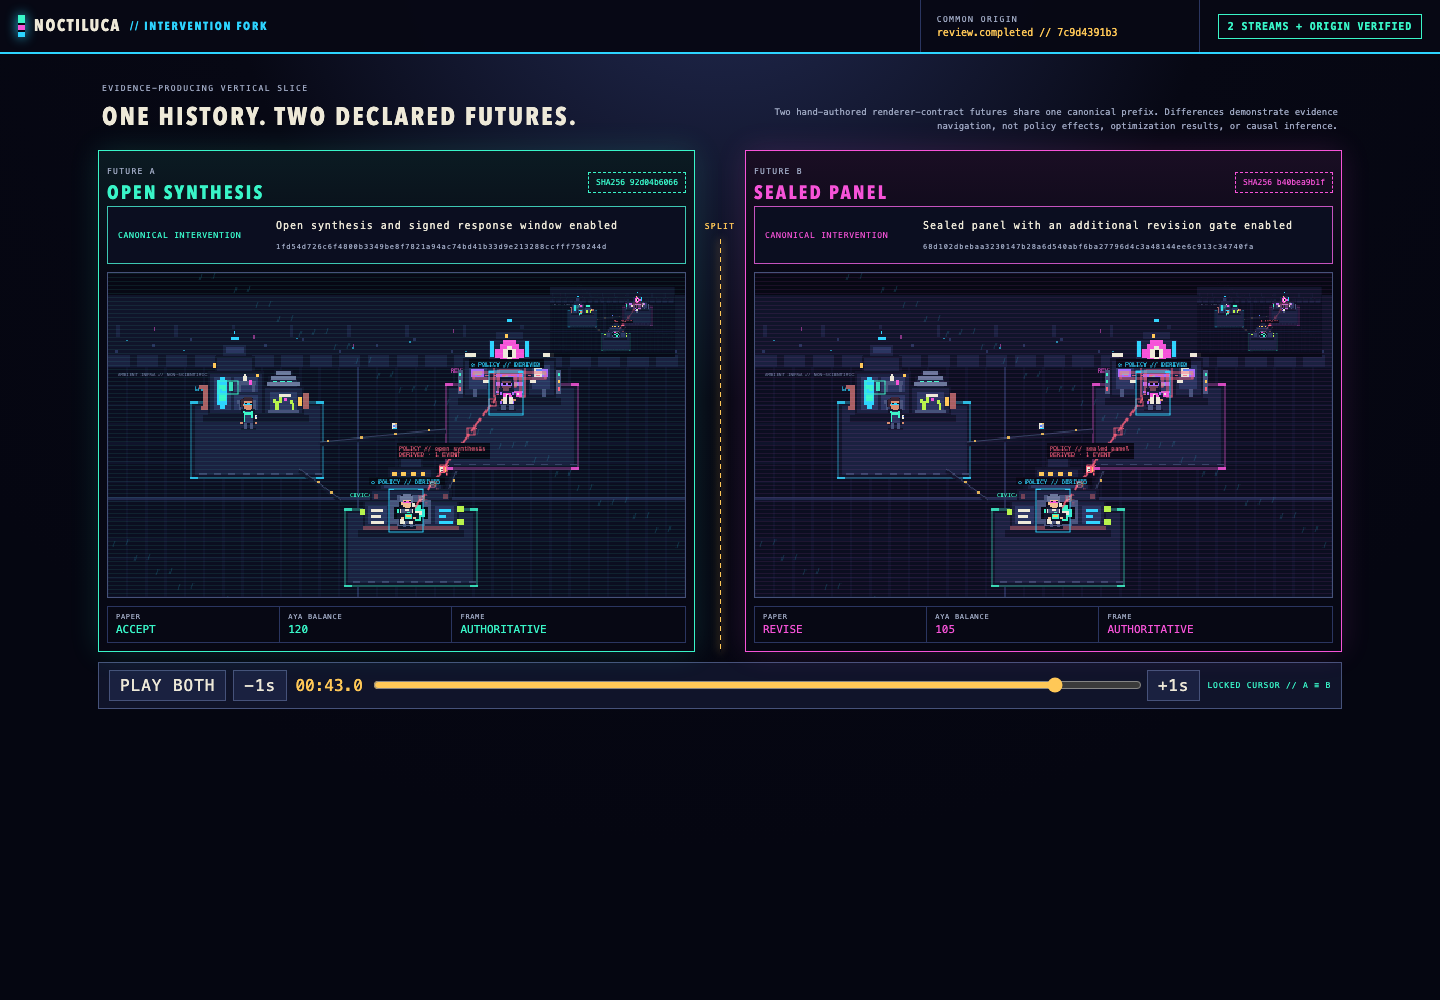
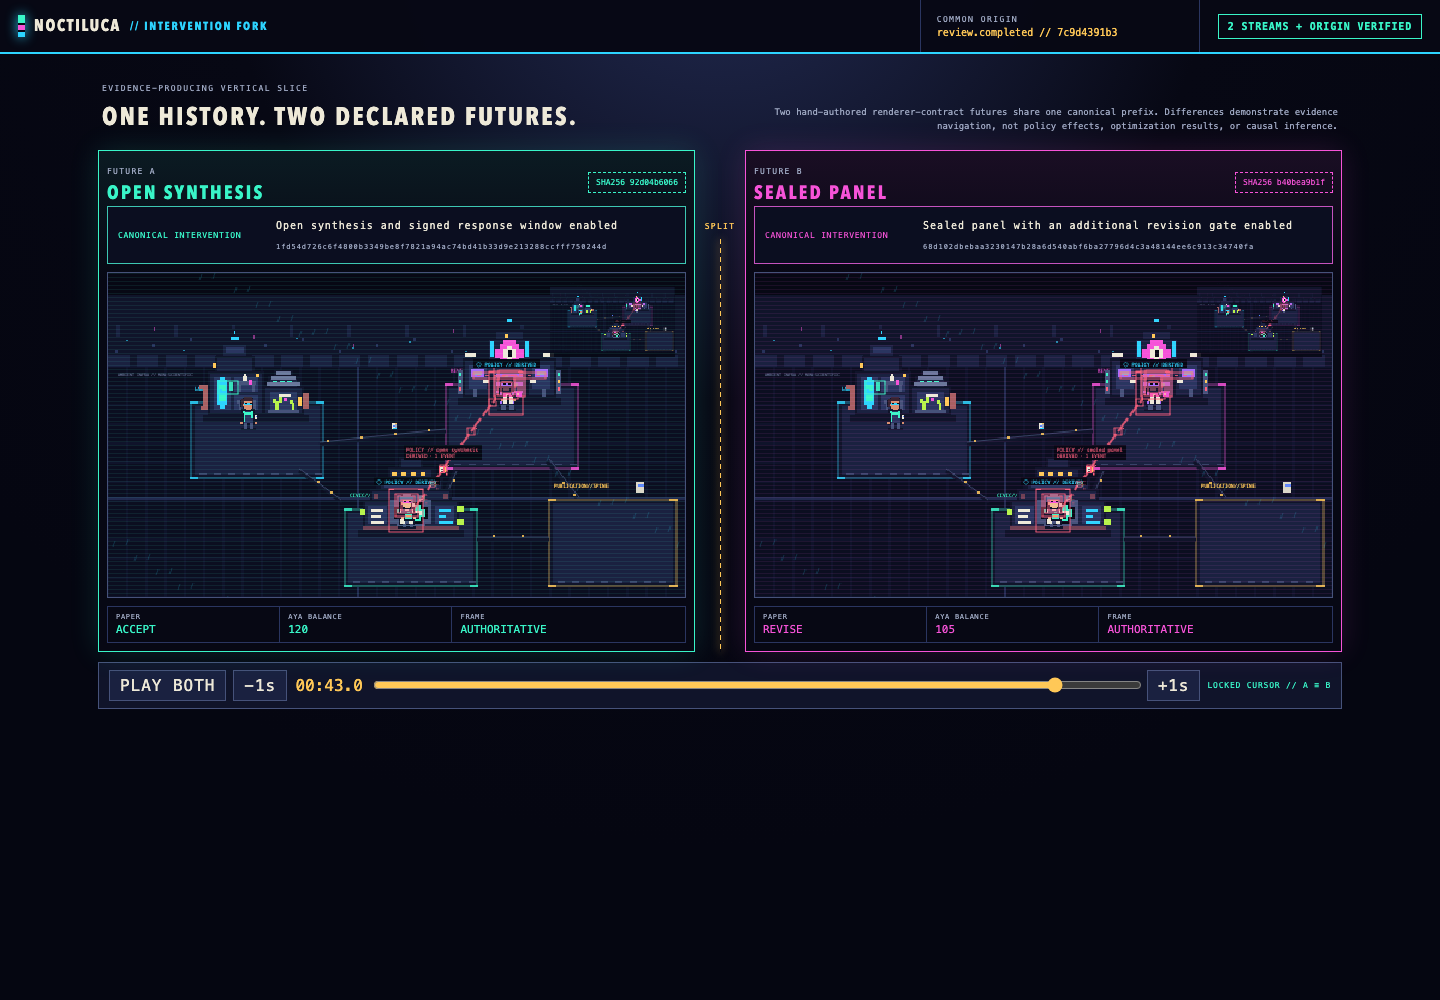
test: reconcile integrated game ui visual baselines

diff --git a/game-ui-v2/test/screenshots.test.ts b/game-ui-v2/test/screenshots.test.ts
@@ -29,7 +29,7 @@ const captures = {
[8 lines of base64/hex data omitted]
@@ -42,6 +42,23 @@ describe("deterministic visual review artifacts", () => {
       expect(bytes.subarray(1, 4).toString("ascii")).toBe("PNG");
       expect(bytes.readUInt32BE(16)).toBe(1440);
       expect(bytes.readUInt32BE(20)).toBe(1050);
+      expect(createHash("sha256").update(bytes).digest("hex")).toBe(expectedHash);
+    });
+  }
+});
+
+const branchCaptures = {
[2 lines of base64/hex data omitted]
+};
+
+describe("deterministic intervention comparison artifacts", () => {
+  for (const [name, expectedHash] of Object.entries(branchCaptures)) {
+    it(`${name} is the reviewed 1440x1000 PNG`, async () => {
+      const bytes = await readFile(fileURLToPath(new URL(`../screenshots/${name}`, import.meta.url)));
+      expect(bytes.subarray(1, 4).toString("ascii")).toBe("PNG");
+      expect(bytes.readUInt32BE(16)).toBe(1440);
+      expect(bytes.readUInt32BE(20)).toBe(1000);
       expect(createHash("sha256").update(bytes).digest("hex")).toBe(expectedHash);
     });
   }

diff --git a/research/tracks/game-ui-integration-audit-2026-10-28.md b/research/tracks/game-ui-integration-audit-2026-10-28.md
@@ -1,0 +1,66 @@
+# Game UI integration audit — 2026-10-28
+
+Status: integrated and locally verified on
+`integration/game-ui-complete-20261028`, based on main commit `9138ab3`.
+
+## Commit audit and integration order
+
+1. Branch-comparison source commit `111ba185` was audited against main's
+   replayed commit `f46c900`. All relevant game UI, replay adapter, fixture,
+   test, script and track-document trees are identical, so the source commit
+   was not cherry-picked a second time.
+2. Collaboration Evidence Navigator `6f681f0` was cherry-picked first as
+   integration commit `955e121`.
+3. Optimizer Observatory `03eac30`, whose parent is `6f681f0`, was
+   cherry-picked second as integration commit `60f7d93`.
+
+Both cherry-picks applied without textual conflicts. This order preserves the
+parent-child UI history and avoids duplicating branch-comparison fixtures.
+
+## Runtime visual reconciliation
+
+The first integration capture correctly detected two stale visual baselines:
+
+- the Evidence Navigator footer changed because the Observatory toggle is now
+  part of the integrated command deck;
+- branch comparison had inherited later renderer improvements since its
+  original branch-local capture.
+
+The three affected PNG contracts were regenerated from the integrated runtime,
+each repeated with a separate empty Chrome profile and compared byte-for-byte.
+Branch comparison screenshots are now also covered by the automated screenshot
+hash suite with their native 1440x1000 dimensions.
+
+## Verification
+
+- Vitest: 92 passed across 12 files, including branch compare, evidence graph,
+  observatory and deterministic image contracts.
+- TypeScript typecheck: passed.
+- Vite production build: passed, including `index.html`, `compare.html`,
+  `hub.html`, `sandbox.html` and `mission.html`.
+- `npm audit --audit-level=high`: zero vulnerabilities.
+- Integrated Evidence Navigator capture:
[1 lines of base64/hex data omitted]
+- Integrated Optimizer Observatory capture remained byte-identical to its
+  source branch:
[1 lines of base64/hex data omitted]
+- Integrated branch comparison and evidence captures:
[2 lines of base64/hex data omitted]
+
+## Safety and remaining risk
+
+No active v1.1 experiment worktree, held-out registry, or raw output was read or
+modified. Main was not merged or pushed.
+
+The production build continues to warn that the Phaser replay chunk is larger
+than 500 kB. This is a performance/code-splitting risk, not a correctness or
+truth-boundary failure. The integration adds no live experiment reader; the
+Optimizer Observatory remains bound to its timestamped verified snapshot or an
+explicitly synthetic fixture.
+
+The branch-comparison Python replay test was not rerun in this integration
+worktree because neither a project virtual environment nor `pytest` in the
+approved user Python was available. Its source and fixtures are byte-identical
+to main's already integrated `f46c900`; the browser-side branch test and both
+runtime comparison views passed here.

diff --git a/game-ui-v2/screenshots/README.md b/game-ui-v2/screenshots/README.md
@@ -28,7 +28,7 @@ citation identity is synthesized.
 
 | Capture | SHA-256 |
 |---|---|
[3 lines of base64/hex data omitted]
 
 Each capture was regenerated from a separate empty Chrome profile and matched
@@ -217,11 +217,11 @@ identical six-event prefix. The inspector capture opens Future B's canonical
 
 | Capture | SHA-256 |
 |---|---|
[4 lines of base64/hex data omitted]
 
-The comparison capture was repeated with the same Chromium build and was
-byte-identical. Visual review confirmed distinct branch framing, the common
+Both integrated-runtime captures were repeated with separate empty Chrome
+profiles and were byte-identical. Visual review confirmed distinct branch framing, the common
 origin and three-hash verification state, synchronized cursor, authoritative
 outcome strips, and canonical intervention drill-down.
 

diff --git a/research/tracks/game-ui-branch-comparison-v1.md b/research/tracks/game-ui-branch-comparison-v1.md
@@ -51,8 +51,10 @@ opens its branch-local canonical evidence.
 - TypeScript typecheck and two-entry production build passed;
 - `npm audit --audit-level=high`: zero vulnerabilities;
 - 1440x1000 headless Chromium visual review passed;
-- two cursor-43,000 captures were byte-identical, SHA-256
[1 lines of base64/hex data omitted]
+- integrated-runtime cursor-43,000 and intervention-evidence captures were each
+  byte-identical across separate browser profiles, SHA-256
[2 lines of base64/hex data omitted]
 
 ## Next boundary
 

diff --git a/research/tracks/game-ui-collaboration-evidence-v1.md b/research/tracks/game-ui-collaboration-evidence-v1.md
@@ -81,7 +81,8 @@ was not changed.
 - Complete Vitest suite: 83 passed.
 - TypeScript typecheck and Vite production build: passed.
 - Artifact authorship/reviewer view, two byte-identical captures:
[2 lines of base64/hex data omitted]
+  after the integrated Observatory control was added to the command deck.
 - Researcher funding-activity view, two byte-identical captures:
[1 lines of base64/hex data omitted]
 
